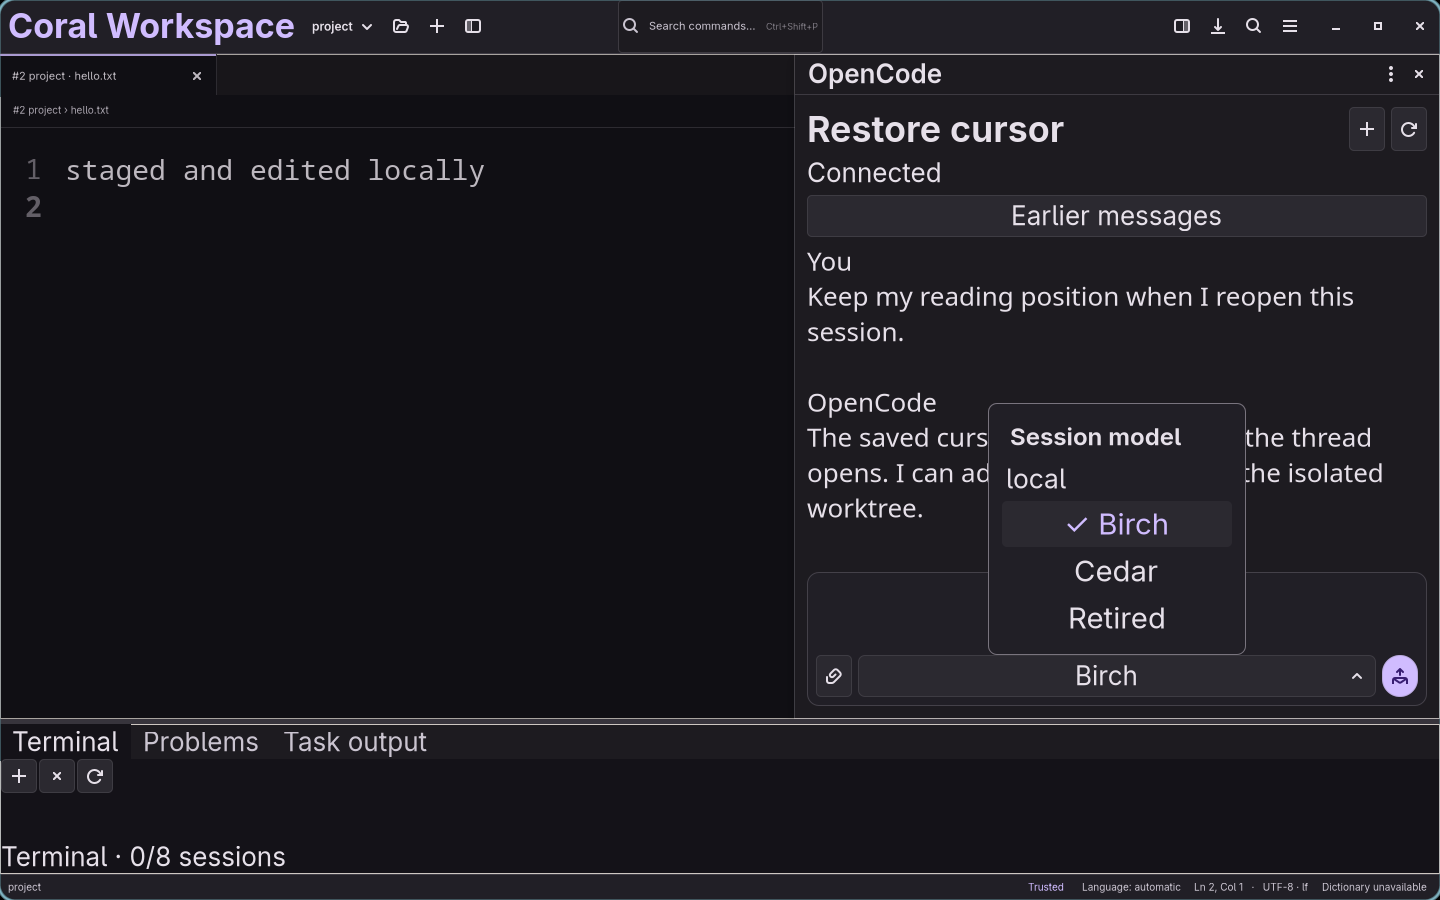
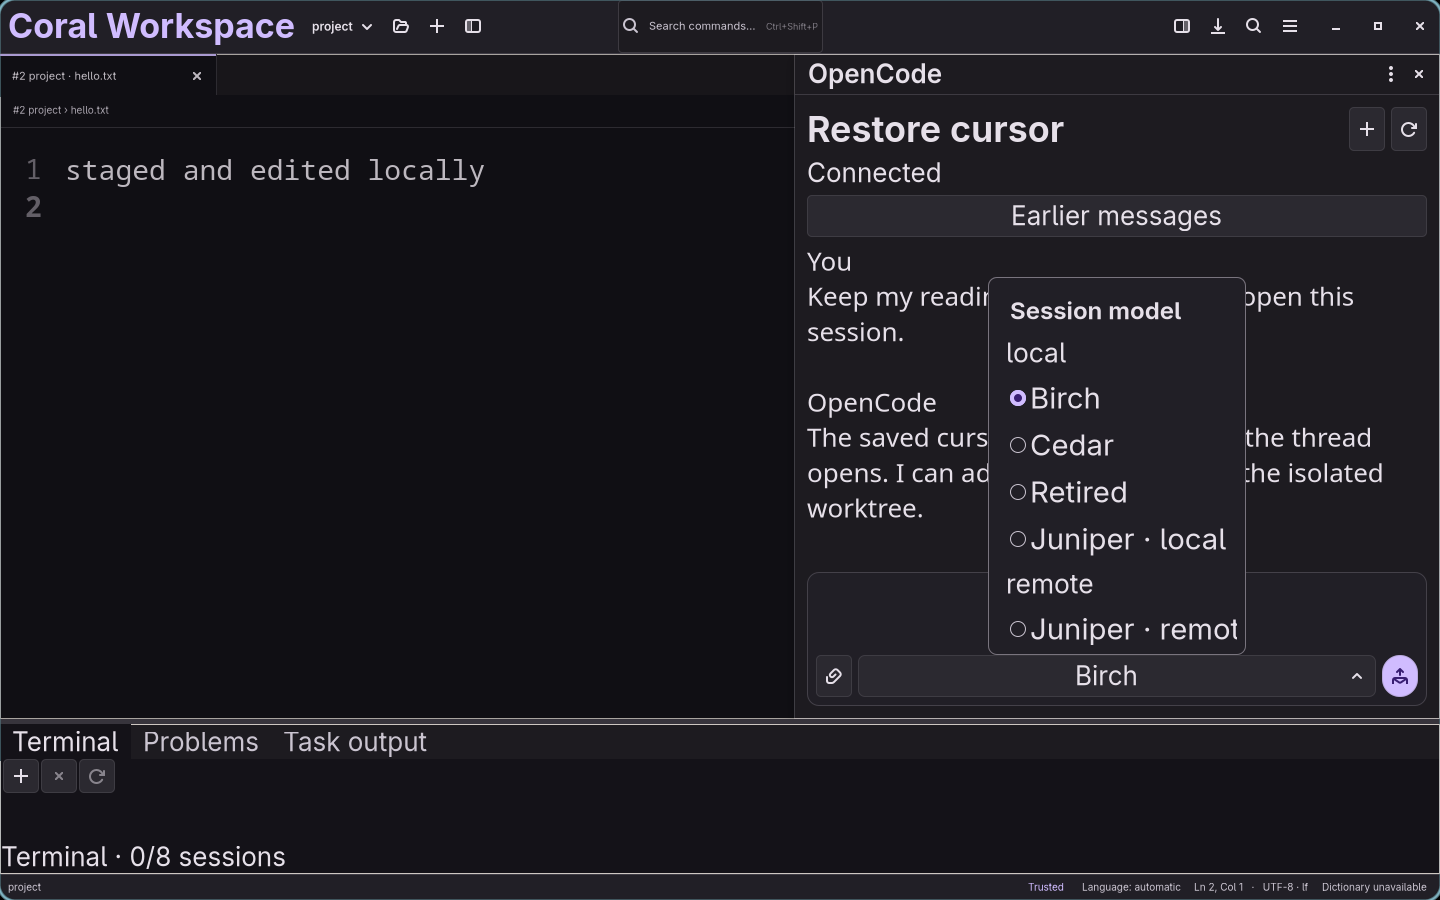
Expose native model radio choices and verify desktop launch offline

Changed region(s): [[0.6875, 0.4356, 0.875, 0.7156], [0.6875, 0.3111, 0.875, 0.4044], [0.0, 0.84, 0.0938, 0.8711]]

diff --git a/subprojects/coral/resources/theme.css b/subprojects/coral/resources/theme.css
@@ -77,6 +77,10 @@ window.coral.$scope .workspace-permission,
 window.coral.$scope .workspace-composer { background: $container$; border-color: alpha($outline$, 0.4); }
 
 window.coral.$scope button.workspace-current-session { background: $high$; color: $primary$; }
+window.coral.$scope checkbutton.workspace-model-choice:hover { background: $high$; }
+window.coral.$scope checkbutton.workspace-model-choice:focus-visible { outline: 2px solid $primary$; outline-offset: -2px; }
+window.coral.$scope checkbutton.workspace-model-choice > radio { background: $container$; border: 1px solid $secondary$; box-shadow: none; }
+window.coral.$scope checkbutton.workspace-model-choice > radio:checked { background: $primary$; border-color: $primary$; color: $on_primary$; }
 
 window.coral.$scope .workspace-dock { background: $low$; }
 window.coral.$scope .workspace-tools stack { background: $surface$; }

diff --git a/subprojects/coral/resources/style.css b/subprojects/coral/resources/style.css
@@ -138,6 +138,7 @@ window.coral-workspace .workbench-titlebar .brand { font-size: 12.75pt; font-wei
 window.coral-workspace .workspace-section { margin: 5px 8px; font-size: 9pt; font-weight: 650; }
 window.coral-workspace .workspace-thread-title { font-size: 13.5pt; font-weight: 650; }
 window.coral-workspace .workspace-session { padding: 5px 10px; margin: 1px 5px; border-radius: 7px; }
+window.coral-workspace checkbutton.workspace-model-choice { padding: 5px 8px; border-radius: 6px; }
 window.coral-workspace .workspace-session .caption { font-size: 8.25pt; }
 window.coral-workspace notebook.workspace-tools > header,
 window.coral-workspace notebook.workspace-tools > header > tabs { min-height: 34px; }

diff --git a/subprojects/coral/tests/opencode_workspace.py b/subprojects/coral/tests/opencode_workspace.py
@@ -21,7 +21,7 @@ PEARL = CORAL.parents[1]
 sys.path[:0] = [str(PEARL / "scripts"), str(PEARL / "tests/integration")]
 
 
-def drive(offline=False, adaptive=False, diagnostics=False, permissions=False, terminal=False):
+def drive(offline=False, adaptive=False, diagnostics=False, permissions=False, terminal=False, desktop=False):
     import gi
     gi.require_version("Atspi", "2.0")
     from gi.repository import Atspi, GLib
@@ -44,13 +44,20 @@ def drive(offline=False, adaptive=False, diagnostics=False, permissions=False, t
                     return obj
             time.sleep(.05)
         names = [obj.get_name() for obj in descendants(Atspi.get_desktop(0)) if obj.get_name() and obj.get_state_set().contains(Atspi.StateType.SHOWING)]
-        raise AssertionError(f"Missing visible GTK control {name!r}; visible controls {names!r}")
+        matches = [(o.get_role_name(), o.get_n_actions(), o.get_interfaces(), o.get_state_set().contains(Atspi.StateType.SENSITIVE))
+                   for o in descendants(Atspi.get_desktop(0)) if o.get_name() == name]
+        raise AssertionError(f"Missing GTK control {name!r}. Matches {matches}. Visible controls {names!r}")
 
     def click(name):
         deadline = time.monotonic() + 5
         while True:
             try:
-                assert lookup(name).do_action(0), name
+                control = lookup(name)
+                if control.get_role() == Atspi.Role.RADIO_BUTTON:
+                    index = next(i for i in range(control.get_n_actions()) if Atspi.Action.get_localized_name(control, i) == "model.select")
+                else:
+                    index = 0
+                assert control.do_action(index), name
                 return
             except GLib.Error as error:
                 # GTK can publish its action list one iteration after a model refresh.
@@ -91,6 +98,19 @@ def drive(offline=False, adaptive=False, diagnostics=False, permissions=False, t
         for modifier in reversed(modifiers):
             keys.extend(["-m", modifier])
         subprocess.run(keys, check=True)
+
+    if desktop:
+        from pearl_session import wait_for
+        lookup("Start OpenCode with opencode service start, then reconnect.", actionable=False)
+        buffer_with("staged and edited locally\n")
+        key("1", "ctrl")
+        key("End", "ctrl")
+        subprocess.run(["wtype", "Edited from the desktop launcher"], check=True)
+        key("s", "ctrl")
+        path = Path(os.environ["WORKSPACE_TEST_PROJECT"]) / "hello.txt"
+        wait_for(lambda: path.read_text() == "staged and edited locally\nEdited from the desktop launcher")
+        key("q", "ctrl")
+        return
 
     if terminal:
         from pearl_session import wait_for
@@ -193,7 +213,7 @@ def drive(offline=False, adaptive=False, diagnostics=False, permissions=False, t
                     and obj.get_role() == Atspi.Role.PUSH_BUTTON
                     and obj.get_state_set().contains(Atspi.StateType.SHOWING)]
         try:
-            lookup("Birch")
+            lookup("Change session model, currently Birch")
             fixture("permissions-add")
             details = buffer_with("readme.txt", contains=True)
             lookup("Message OpenCode", actionable=False)
@@ -290,19 +310,19 @@ def drive(offline=False, adaptive=False, diagnostics=False, permissions=False, t
             lookup("Toggle Explorer drawer")
             lookup("Toggle OpenCode drawer")
             click("Toggle OpenCode drawer")
-            click("Birch")
+            click("Change session model, currently Birch")
             lookup("Cedar")
             lookup("Task output", actionable=False)
             capture("large-text-model")
             print("Verified large-text drawer layout retains both the model picker and dock at desktop width.")
             return
-        lookup("Birch")
+        lookup("Change session model, currently Birch")
         composer = lookup("Message OpenCode", actionable=False)
         assert composer.set_text_contents("Drawer draft")
         fixture("resize", width=920)
         lookup("Toggle Explorer drawer")
         assert not visible("Toggle OpenCode drawer")
-        lookup("Birch")
+        lookup("Change session model, currently Birch")
         assert not visible("Restore cursor") or not visible("Review watcher")
         click("Toggle Explorer drawer")
         lookup("Review watcher")
@@ -313,10 +333,10 @@ def drive(offline=False, adaptive=False, diagnostics=False, permissions=False, t
         assert not visible("Message OpenCode")
         lookup("Task output", actionable=False)
         click("Toggle OpenCode drawer")
-        lookup("Birch")
+        lookup("Change session model, currently Birch")
         assert bounds("Message OpenCode").y < bounds("Task output").y
         assert Atspi.Text.get_text(lookup("Message OpenCode", False), 0, -1) == "Drawer draft"
-        click("Birch")
+        click("Change session model, currently Birch")
         lookup("Cedar")
         if directory := os.environ.get("WORKSPACE_TEST_CAPTURES"):
             frame = fixture("geometry")
@@ -327,11 +347,11 @@ def drive(offline=False, adaptive=False, diagnostics=False, permissions=False, t
         while fixture("current-model") != "cedar":
             assert time.monotonic() < until, "The service did not receive the model change"
             time.sleep(.05)
-        lookup("Cedar")
+        lookup("Change session model, currently Cedar")
         escape()
         fixture("resize", width=1440)
         lookup("Review watcher")
-        lookup("Cedar")
+        lookup("Change session model, currently Cedar")
         assert not visible("Toggle Explorer drawer") and not visible("Toggle OpenCode drawer")
         assert Atspi.Text.get_text(lookup("Message OpenCode", False), 0, -1) == "Drawer draft"
         # A temporarily opened drawer must not overwrite an explicitly hidden pin.
@@ -340,12 +360,12 @@ def drive(offline=False, adaptive=False, diagnostics=False, permissions=False, t
         while visible("Review watcher"):
             assert time.monotonic() < deadline, "Explorer pin did not close"
             time.sleep(.05)
-        lookup("Cedar")
+        lookup("Change session model, currently Cedar")
         fixture("resize", width=680)
         click("Toggle Explorer drawer")
         lookup("Review watcher")
         fixture("resize", width=1440)
-        lookup("Cedar")
+        lookup("Change session model, currently Cedar")
         assert not visible("Review watcher")
         print("Verified adaptive drawers, session model and draft, bottom dock access and manually hidden pin restoration.")
         return
@@ -382,22 +402,41 @@ def drive(offline=False, adaptive=False, diagnostics=False, permissions=False, t
     lookup("hello.txt · L1–1")
     composer = lookup("Message OpenCode", actionable=False)
     assert composer.set_text_contents("Keep this draft across model switches")
-    click("Birch")
+    click("Change session model, currently Birch")
     lookup("Retired")
+    key("Escape")
+    key("space")
+    selected = lookup("Birch")
+    assert selected.get_state_set().contains(Atspi.StateType.CHECKED)
+    assert not lookup("Cedar").get_state_set().contains(Atspi.StateType.CHECKED)
+    lookup("Retired")
+    lookup("Juniper · local")
+    lookup("Juniper · remote")
     capture("model-selection")
     click("Retired")
     lookup("This model has been retired", actionable=False)
     assert Atspi.Text.get_text(composer, 0, -1) == "Keep this draft across model switches"
-    click("Birch")
-    click("Cedar")
+    click("Change session model, currently Birch")
+    lookup("Cedar")
+    key("Down")
+    if any(obj.get_role() == Atspi.Role.RADIO_BUTTON and obj.get_name() == "Cedar" and
+           obj.get_state_set().contains(Atspi.StateType.FOCUSED) for obj in descendants(Atspi.get_desktop(0))):
+        key("space")
+    click("Change session model, currently Cedar")
+    click("Juniper · remote")
+    lookup("Change session model, currently Juniper · remote")
     click("Review watcher")
-    lookup("Birch")
+    lookup("Change session model, currently Birch")
     click("Restore cursor")
-    lookup("Cedar")
+    click("Change session model, currently Juniper · remote")
+    assert lookup("Juniper · remote").get_state_set().contains(Atspi.StateType.CHECKED)
+    assert not lookup("Juniper · local").get_state_set().contains(Atspi.StateType.CHECKED)
+    click("Cedar")
+    lookup("Change session model, currently Cedar")
     fixture("external-change")
-    lookup("Birch")
+    lookup("Change session model, currently Birch")
     fixture("missed-event")
-    lookup("Cedar")
+    lookup("Change session model, currently Cedar")
     assert Atspi.Text.get_text(composer, 0, -1) == "Keep this draft across model switches"
     click("hello.txt · L1–1")
     buffer_with("staged")
@@ -558,8 +597,10 @@ class API(BaseHTTPRequestHandler):
         if path == "/api/location":
             return self.reply({"project": {"id": "fixture"}, "directory": str(service.project)})
         if path == "/api/model":
-            return self.reply({"data": [dict(id=x.lower(), name=x, providerID="local", enabled=True)
-                                        for x in ("Birch", "Cedar", "Retired")]})
+            models = [dict(id=name.lower(), name=name, providerID="local", enabled=True)
+                      for name in ("Birch", "Cedar", "Retired", "Juniper")]
+            models.append(dict(id="juniper", name="Juniper", providerID="remote", enabled=True))
+            return self.reply({"data": models})
         if path == "/api/session":
             if post:
                 tree = Path(body["location"]["directory"])
@@ -696,6 +737,26 @@ def main(args):
                     doc.write_text(data)
             if args.terminal:
                 session.env.update(SHELL="/bin/sh", WORKSPACE_TEST_PROJECT=str(project))
+            if args.desktop:
+                from pearl_session import wait_for
+                prefix = args.binary.resolve().parents[1]
+                desktop_id = "org.aqueous.Coral.Workspace"
+                entry = prefix / "share/applications" / (desktop_id + ".desktop")
+                session.run(["desktop-file-validate", entry])
+                (state / "service.json").rename(state / "offline.json")
+                session.env.update(
+                    PATH=str(prefix / "bin") + ":" + session.env["PATH"],
+                    XDG_DATA_DIRS=str(prefix / "share") + ":" + session.env.get("XDG_DATA_DIRS", "/usr/local/share:/usr/share"),
+                    WORKSPACE_TEST_PROJECT=str(project), G_DEBUG="fatal-criticals",
+                )
+                launcher = session.child("desktop-launch", ["gtk-launch", desktop_id, project.as_uri(), file.as_uri()])
+                assert launcher.wait(timeout=10) == 0
+                wait_for(window_geometry, 10)
+                subprocess.run([sys.executable, str(Path(__file__).resolve()), "--drive", "--desktop"],
+                               env=session.env, check=True, timeout=30)
+                wait_for(lambda: not window_geometry(), 5)
+                print("Verified the installed desktop entry opened the project and file, saved an offline edit and quit.")
+                return
             application = session.child("workspace", [args.binary.resolve(), *(["--log-level", "debug", "--log-scopes", "services"] if args.terminal else []), project, *documents], G_DEBUG="fatal-criticals")
             from pearl_session import wait_for
             wait_for(lambda: "/api/model" in service.calls)
@@ -746,6 +807,7 @@ if __name__ == "__main__":
     parser.add_argument("--diagnostics", action="store_true")
     parser.add_argument("--permissions", action="store_true")
     parser.add_argument("--terminal", action="store_true")
+    parser.add_argument("--desktop", action="store_true", help="Use the installed binary and desktop entry from the same prefix")
     parser.add_argument("--binary", type=Path, default=CORAL / "zig-out/bin/coral-workspace")
     parser.add_argument("--output", type=Path, default=CORAL / ".zig-cache/workspace-integration")
     parser.add_argument("--aqueous-prefix", type=Path)
@@ -756,6 +818,6 @@ if __name__ == "__main__":
     parser.add_argument("--height", type=int, default=900)
     opts = parser.parse_args()
     if opts.drive:
-        drive(opts.offline, opts.adaptive, opts.diagnostics, opts.permissions, opts.terminal)
+        drive(opts.offline, opts.adaptive, opts.diagnostics, opts.permissions, opts.terminal, opts.desktop)
     else:
         main(opts)

diff --git a/subprojects/coral/README.md b/subprojects/coral/README.md
@@ -81,13 +81,13 @@ Launch the dedicated GTK workbench with `zig build workspace -Doptimize=safe -- 
 
 Highlight code and press **Ctrl+Shift+A** to attach it to the active session. **Ctrl+Shift+R** opens the session’s changes, **Ctrl+F7** and **Ctrl+Shift+F7** move between hunks, and **F8** selects the next diagnostic across open documents. The command palette lists these shortcuts.
 
-The composer keeps a separate model, draft and captured selection for each session. Click an attachment to read its original text or refresh it from the editor. A permission card identifies the requesting session, action, resource and working directory. Each request is announced once while it is pending. Earlier messages load on demand. Unknown deliveries can be retried with their original message ID. After a restart, Coral can restore and edit the draft while the service is offline.
+The composer keeps a separate model, draft and captured selection for each session. The model button announces the current choice. Open it with Space and use the arrow keys to reach another model. Click an attachment to read its original text or refresh it from the editor. A permission card identifies the requesting session, action, resource and working directory. Each request is announced once while it is pending. Earlier messages load on demand. Unknown deliveries can be retried with their original message ID. After a restart, Coral can restore and edit the draft while the service is offline.
 
 [Native model picker](../../artifacts/development-workspace/model-selection-dark.png) · [Narrow OpenCode drawer](../../artifacts/development-workspace/narrow-model.png) · [Model picker at 200% text DPI](../../artifacts/development-workspace/large-text-model.png) · [OpenCode permission cards](../../artifacts/development-workspace/permissions-dark.png) · [Side-by-side review in Pearl light](../../artifacts/development-workspace/review-light.png) · [Overlapping edits](../../artifacts/development-workspace/conflict-dark.png)
 
 **New OpenCode session** creates an isolated worktree from the current Git checkout, including changes to tracked files and untracked project files. Use **Review changes** to inspect a hunk, apply it to a Coral buffer, or resolve overlapping changes before saving. A project folder outside Git opens a planning session. The connection, model picker and chat use libsoup 3. The workspace terminal embeds GTK4 VTE, opens the user’s shell in the active project, and follows the editor font and Pearl palette. [Pearl dark terminal](../../artifacts/development-workspace/terminal-dark.png) · [Pearl light terminal](../../artifacts/development-workspace/terminal-light.png)
 
-Run `zig build workspace-integration -Doptimize=safe -- --aqueous-prefix /path/to/aqueous/prefix` for a private Wayland test with a local OpenCode API fixture. The test exercises the native widgets and checks that review preserves the project’s staged and unstaged content. Pass `--adaptive` to exercise the drawers through window resizes, or `--adaptive --large-text` to exercise them at 200% text DPI. The `--diagnostics` scenario checks Unicode selections across two documents. The `--permissions` scenario checks screen-reader announcements and replies across two sessions. Use `--terminal` to exercise a live shell, resize its grid, switch projects, and restart an exited session. With OpenCode 2.4 installed, `zig build workspace-service-test` runs an isolated service and local model endpoint. It changes models during a turn, answers a permission request, and retries a queued prompt using its original ID.
+Run `zig build workspace-integration -Doptimize=safe -- --aqueous-prefix /path/to/aqueous/prefix` for a private Wayland test with a local OpenCode API fixture. To verify the installed launcher, run `python tests/opencode_workspace.py --desktop --binary zig-out/bin/coral-workspace --aqueous-prefix /path/to/aqueous/prefix` after installing into the build prefix. It launches the desktop entry and saves an edit while OpenCode is offline. The integration test exercises the native widgets and checks that review preserves the project’s staged and unstaged content. Pass `--adaptive` to exercise the drawers through window resizes, or `--adaptive --large-text` to exercise them at 200% text DPI. The `--diagnostics` scenario checks Unicode selections across two documents. The `--permissions` scenario checks screen-reader announcements and replies across two sessions. Use `--terminal` to exercise a live shell, resize its grid, switch projects, and restart an exited session. With OpenCode 2.4 installed, `zig build workspace-service-test` runs an isolated service and local model endpoint. It changes models during a turn, answers a permission request, and retries a queued prompt using its original ID.
 
 Run `zig build workspace-profile -Doptimize=safe -- --aqueous-prefix /path/to/aqueous/prefix --output /tmp/coral-profile` to measure the native editor on a private desktop. The harness creates a 50,000-file Git checkout, loads a 2,000-message conversation, streams two sessions, and records real GTK input, buffer, and frame timestamps in `measurements.json`. [Recorded hardware and timings](../../docs/DEVELOPMENT_WORKSPACE_PERFORMANCE.md)
 

diff --git a/docs/DEVELOPMENT_WORKSPACE_IMPLEMENTATION_PLAN.md b/docs/DEVELOPMENT_WORKSPACE_IMPLEMENTATION_PLAN.md
@@ -6,7 +6,7 @@ Build a dedicated Pearl development workspace in Zig, GTK4 and GtkSourceView 5. 
 
 ![The OpenCode composer with its provider-grouped session model picker open](mockups/development-workspace/model-selection.png)
 
-[View the same model picker in Pearl light](mockups/development-workspace/model-selection-light.png).
+[View the same model picker in Pearl light](mockups/development-workspace/model-selection-light.png). The GTK implementation uses a native radio group that exposes the selected model to assistive technology. [Native dark](../artifacts/development-workspace/model-selection-dark.png) · [Native light](../artifacts/development-workspace/model-selection-light.png) · [Narrow window](../artifacts/development-workspace/narrow-model.png) · [Large text](../artifacts/development-workspace/large-text-model.png)
 
 ## The four-region window
 
